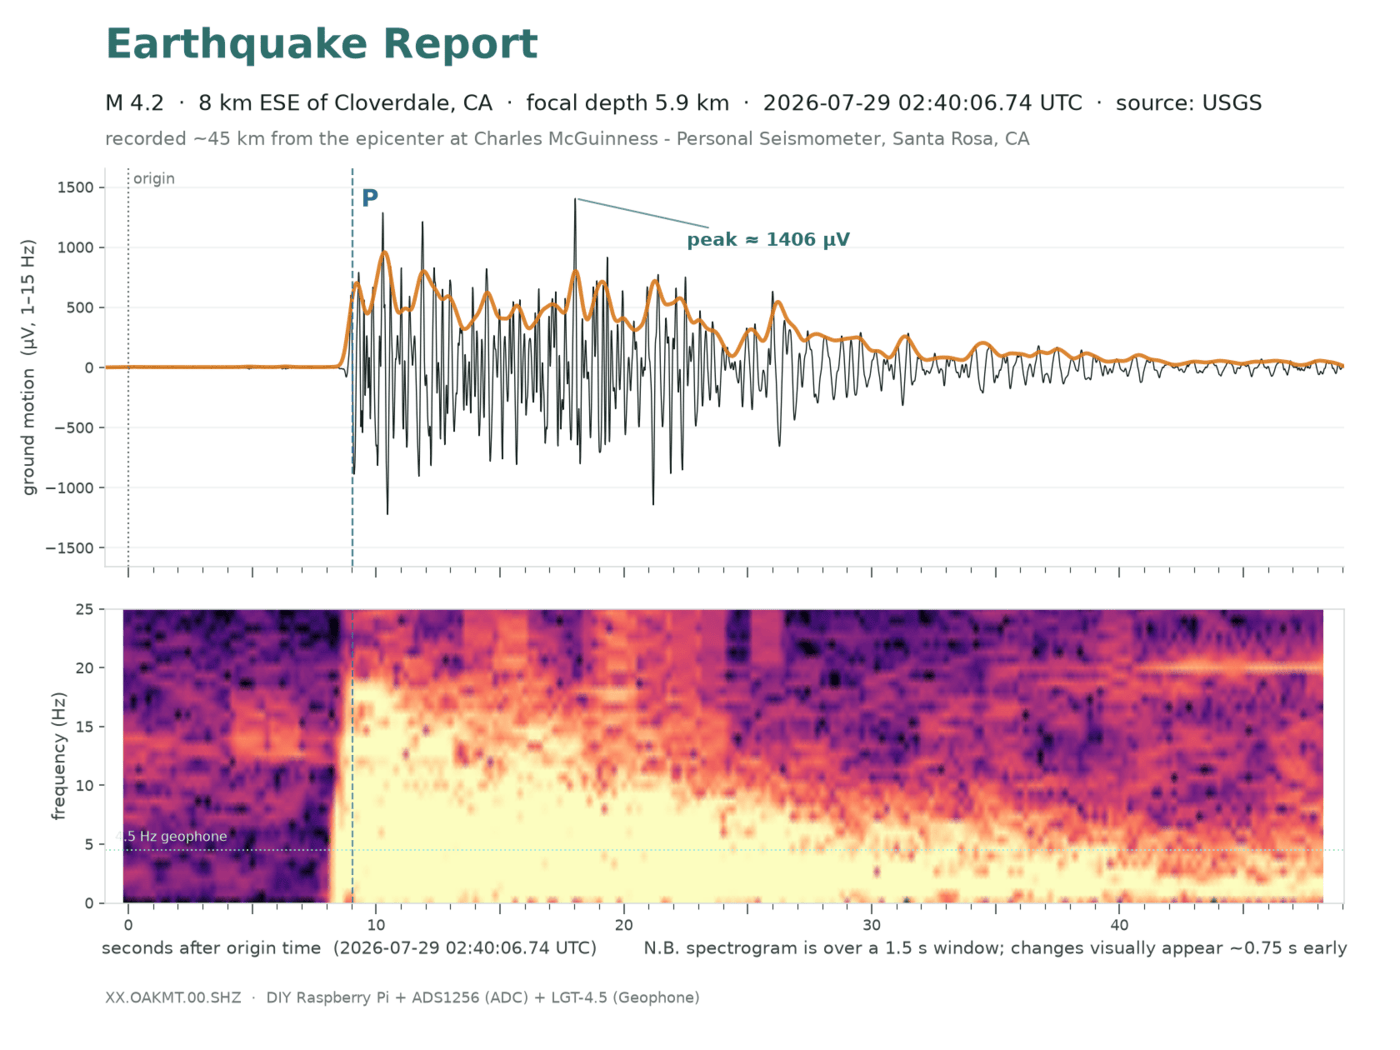
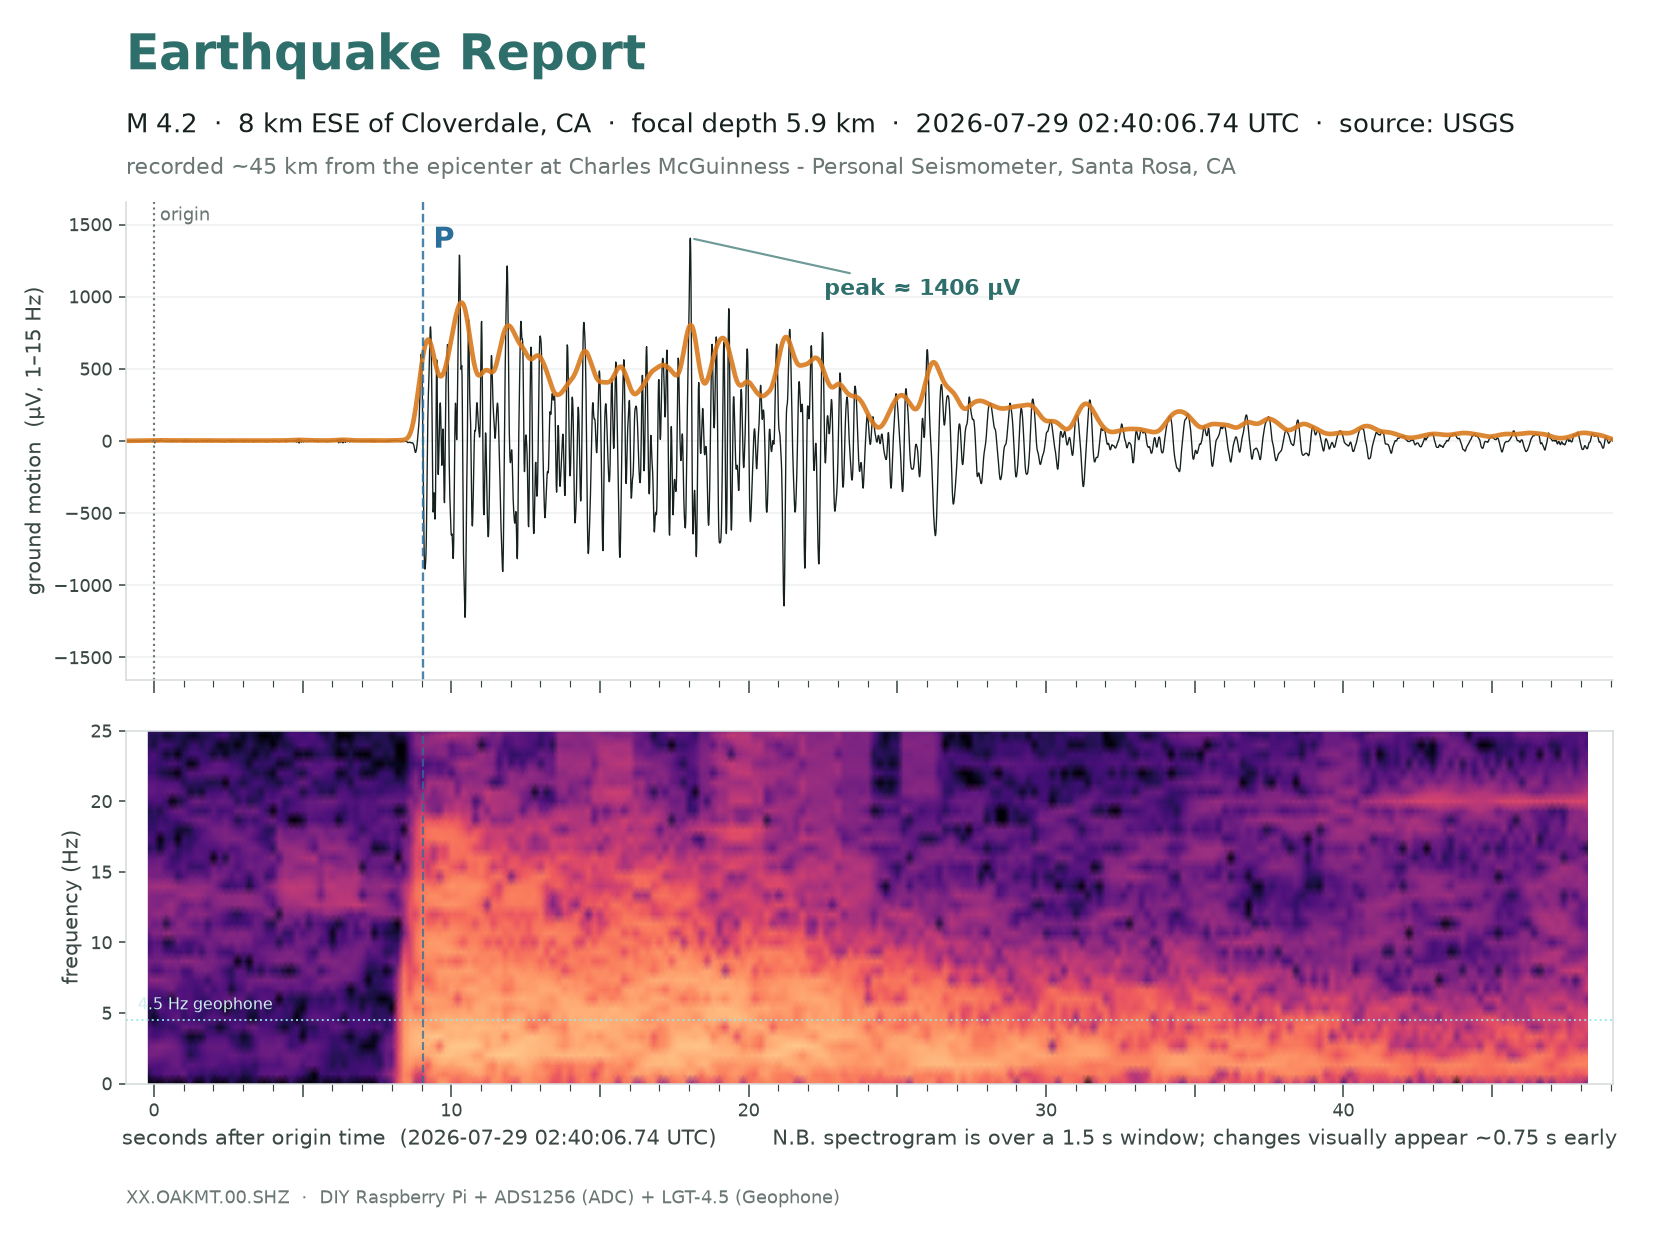
specgram: headroom above +25 dB, so a big event's spectrogram is not a yellow block
The fixed -25..+25 dB colour axis saturated on anything bigger than about M2 at
40 km; the M3.5 under Larkfield-Wikiup peaked near +65 dB and drew as solid yellow
for ten seconds, hiding the P-to-S-to-coda evolution until it was nearly over
(Charles). Raising the ceiling to 65 fixes that and pushes the small events into the
bottom third of the colormap. So the axis is now piecewise: -25..+25 dB still owns
the lower 70% of magma, +25..+70 the rest. Same colour is still the same absolute
power in every plot, which was the point of a fixed axis. Every catch image
re-rendered on the new standard; the audio clips and geometry are unchanged.

Changed region(s): [[0.0614, 0.579, 0.9521, 0.8838]]

diff --git a/analysis/specgram.py b/analysis/specgram.py
@@ -3,7 +3,8 @@ directly comparable. Import and call `draw()`; don't hand-roll spectrograms
 elsewhere. Deviate from these choices only with a documented reason.
 
   colormap    magma
-  COLOR AXIS  -25 .. +25 dB   (10*log10 of PSD, (microvolt)^2/Hz, response-uncorrected)
+  COLOR AXIS  -25 .. +25 dB on the lower 70% of the colormap, +25 .. +70 dB on the rest
+              (10*log10 of PSD, (microvolt)^2/Hz, response-uncorrected; see TOP_DB)
   window      1.5 s STFT, 0.2 s hop   -> ~0.67 Hz freq resolution, +/-0.75 s time smear
   freq axis   0 .. 25 Hz   (below the 30 Hz Nyquist at 60 sps; revisit if fs changes)
   input       ground motion in microVOLTS, high-passed at 0.7 Hz (DC/tilt removed),
@@ -14,16 +15,48 @@ in every plot, so a real event and a non-detection sit on one ruler and can be l
 side by side. (Matplotlib's default auto-scaling would silently re-normalise each
 plot to its own data, making brightness meaningless across figures.)
 """
+import os
+
 import numpy as np
+from matplotlib.colors import Normalize
 from scipy.signal import butter, sosfiltfilt, spectrogram
 
 # --- the standard (change here, and every spectrogram changes together) ---
-VMIN_DB, VMAX_DB = -25.0, 25.0
+VMIN_DB = float(os.environ.get("SEISMO_SPEC_VMIN_DB", "-25"))
+VMAX_DB = float(os.environ.get("SEISMO_SPEC_VMAX_DB", "25"))
+# HEADROOM above VMAX_DB (2026-09-03). The -25..+25 dB axis saturated on every event
+# bigger than about M2 at 40 km: the M3.5 under Larkfield-Wikiup peaked near +65 dB and
+# drew as a solid yellow block for ten seconds, so nothing of the P-to-S-to-coda
+# evolution could be seen until it was nearly over. Raising VMAX to 65 fixes that and
+# ruins the small events, which then live in the bottom third of the colormap. So the
+# axis is PIECEWISE: -25..+25 dB still occupies the lower KNEE_FRAC of the colormap (the
+# same colours as before, slightly compressed), and +25..TOP_DB occupies the rest. The
+# same colour is still the same absolute power in every plot, which was the whole point.
+TOP_DB = float(os.environ.get("SEISMO_SPEC_TOP_DB", "70"))
+KNEE_FRAC = float(os.environ.get("SEISMO_SPEC_KNEE_FRAC", "0.7"))
 WINDOW_S = 1.5
 HOP_S = 0.2
 FMAX_HZ = 25.0
 HP_HZ = 0.7
 CMAP = "magma"
+
+
+class _PiecewiseDb(Normalize):
+    """VMIN..VMAX -> 0..KNEE_FRAC, VMAX..TOP -> KNEE_FRAC..1. Fixed, so comparable."""
+    def __call__(self, value, clip=None):
+        v = np.ma.asarray(value, dtype=float)
+        knots_x = [VMIN_DB, VMAX_DB, TOP_DB]
+        knots_y = [0.0, KNEE_FRAC, 1.0]
+        return np.ma.masked_array(np.interp(v, knots_x, knots_y), mask=np.ma.getmask(v))
+
+    def inverse(self, value):
+        return np.interp(value, [0.0, KNEE_FRAC, 1.0], [VMIN_DB, VMAX_DB, TOP_DB])
+
+
+def _norm():
+    if TOP_DB <= VMAX_DB:
+        return Normalize(vmin=VMIN_DB, vmax=VMAX_DB)
+    return _PiecewiseDb(vmin=VMIN_DB, vmax=TOP_DB)
 
 
 def draw(ax, uv, fs, t0=0.0):
@@ -38,7 +71,6 @@ def draw(ax, uv, fs, t0=0.0):
     nov = npg - max(1, int(HOP_S * fs))
     f, tt, sxx = spectrogram(x, fs=fs, nperseg=npg, noverlap=nov)
     mesh = ax.pcolormesh(tt + t0, f, 10.0 * np.log10(sxx + 1e-6),
-                         shading="gouraud", cmap=CMAP,
-                         vmin=VMIN_DB, vmax=VMAX_DB, rasterized=True)
+                         shading="gouraud", cmap=CMAP, norm=_norm(), rasterized=True)
     ax.set_ylim(0, min(fs / 2.0, FMAX_HZ))
     return mesh
